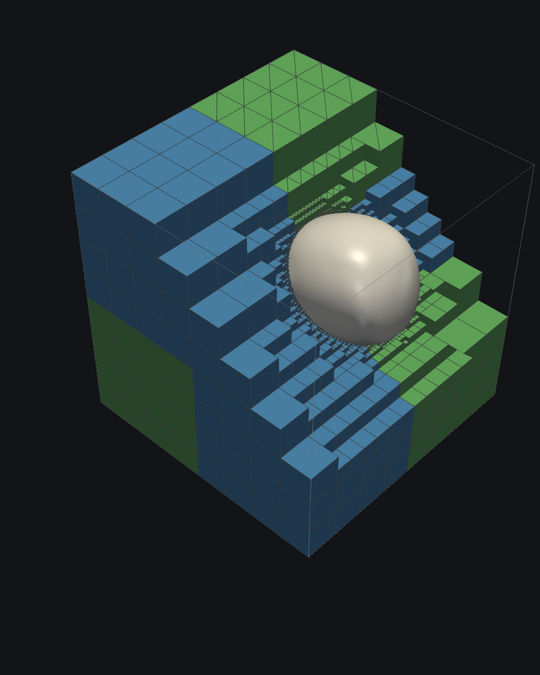
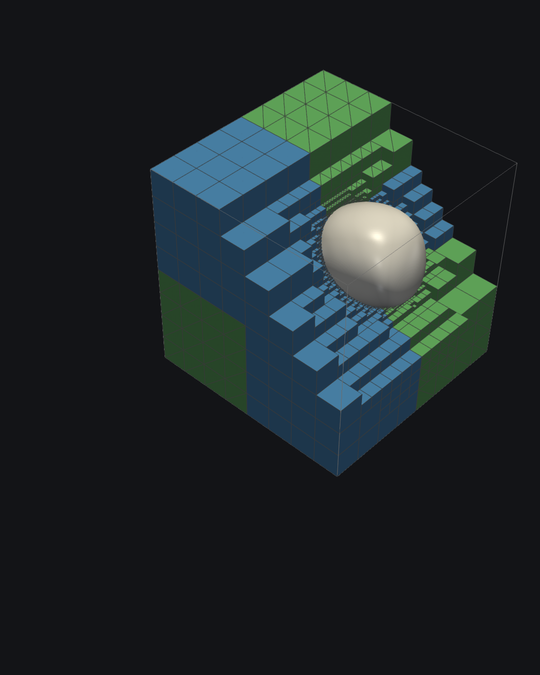
gpu_advection_visualization: semi-transparent sphere in the zoom, raised zoom, text overlays [with assistance from claude] [created with claude]
In the zoom the sphere is semi-transparent, so the refined elements behind it stay visible. The zoom sits higher, clear of video player controls. New option --labels adds the title, the solver/adaptation line and a label at the zoom (used for the original GPU video, not in run.sh, since the second line describes the GPU run). The camera frames the cube clear of texts and zoom. README and images are updated (images rendered from the v50 data).

diff --git a/cases/gpu_advection_visualization/postprocessing/advect_scene.py b/cases/gpu_advection_visualization/postprocessing/advect_scene.py
@@ -4,12 +4,14 @@ Tested with ParaView 5.11.2 (Ubuntu package, /usr/bin/pvpython). Run it with a c
 library path, otherwise pvpython picks up libraries from the module system:
 
   env -u LD_LIBRARY_PATH -u PYTHONPATH pvpython advect_scene.py state  <data_dir> <out.pvsm>
-  env -u LD_LIBRARY_PATH -u PYTHONPATH pvpython advect_scene.py render <data_dir> <out_dir> <first> <last> [stride] [--raytrace] [--inset] [--inset-zoom=Z]
+  env -u LD_LIBRARY_PATH -u PYTHONPATH pvpython advect_scene.py render <data_dir> <out_dir> <first> <last> [stride] [--raytrace]
+      [--inset] [--inset-zoom=Z] [--inset-iso=transparent|curve] [--labels]
 
 'state' writes a ParaView state file for the GUI. 'render' writes one PNG per time step
 (frame_NNN.png) for the steps first, first+stride, ... up to last (inclusive). With --inset each frame also
-gets a zoom into the refinement band in the bottom left corner. Several render processes with disjoint
-step ranges can run at the same time, see make_video.sh. The inset needs PIL (Pillow) in pvpython.
+gets a zoom into the refinement band in the bottom left corner, with --labels the text overlays.
+Several render processes with disjoint step ranges can run at the same time, see make_video.sh.
+The inset and the labels need PIL (Pillow) in pvpython.
 """
 import builtins
 import glob
@@ -39,8 +41,9 @@ BACKGROUND = [0.075, 0.08, 0.09]
 EDGE_COLOR = [0.22, 0.22, 0.22]
 ISO_COLOR = [0.93, 0.92, 0.88]
 OUTLINE_COLOR = [0.42, 0.42, 0.42]
-CAMERA_POSITION = [2.872, 2.601, 3.232]
-CAMERA_FOCAL_POINT = [0.632, 0.484, 0.376]
+# The cube is framed so that it stays clear of the two text lines at the top and the inset with its label.
+CAMERA_POSITION = [3.581, 3.071, 3.811]
+CAMERA_FOCAL_POINT = [0.803, 0.446, 0.270]
 CAMERA_VIEW_UP = [0.0, 0.0, 1.0]
 CAMERA_VIEW_ANGLE = 30.0
 # Zoom into the refinement band (inset in the bottom left corner of the frame, option --inset).
@@ -49,7 +52,9 @@ CAMERA_VIEW_ANGLE = 30.0
 # INSET_DIRECTION, moved by INSET_GAP further out. So it follows the sphere and its deformation.
 # The zoomed region is marked by a frame in the main image, connected to the inset by two lines.
 INSET_RESOLUTION = [360, 360]
-INSET_MARGIN = 16
+# Top left corner of the inset border in the frame. The inset stays clear of the bottom of the frame,
+# where video players show their controls.
+INSET_POSITION = [40, 800]
 # Lower left of the sphere in the main image (hexahedral part of the mesh).
 INSET_DIRECTION = [0.962, 0.193, -0.193]
 INSET_GAP = 0.005
@@ -59,6 +64,20 @@ INSET_LINE_COLOR = (176, 176, 176)
 INSET_LINE_WIDTH = 2
 # Ambient light of the interface in the inset, the zoomed side of the sphere is in the shade.
 INSET_ISO_AMBIENT = 0.4
+# How the interface is shown in the inset, so that the elements behind it stay visible:
+# "transparent" (the sphere with opacity INSET_ISO_OPACITY) or "curve" (only the intersection of the
+# interface with the cutting plane, as a line of width INSET_CURVE_WIDTH).
+INSET_ISO_MODE = "transparent"
+INSET_ISO_OPACITY = 0.4
+INSET_CURVE_WIDTH = 6.0
+
+# Text overlays (option --labels): (text, font file, size in px, color, position of the top left corner).
+FONT_DIR = "/usr/share/fonts/truetype/roboto/hinted"
+LABEL_TITLE = ("t8code - adaptive mesh refinement on a hybrid mesh", "Roboto-Medium.ttf", 40, (240, 240, 240), (40, 30))
+LABEL_SUBTITLE = ("Solver loop: AMD GPU (OpenMP offload) - Mesh adaptation: CPU", "Roboto-Regular.ttf", 30,
+                  (190, 190, 190), (40, 84))
+# Shown with the inset, below it.
+LABEL_INSET = ("Refinement follows interface", "Roboto-Regular.ttf", 30, (190, 190, 190), (40, 1178))
 
 
 def data_files(data_dir):
@@ -233,9 +252,9 @@ def convex_hull(points):
   return set(hull)
 
 
-def save_inset(view, time, frame_file, zoom=INSET_ZOOM):
-  """Render the zoom into the refinement band at the given time and add it to the frame image."""
-  from PIL import Image, ImageDraw
+def save_inset(view, time, inset_file, zoom=INSET_ZOOM, iso_mode=INSET_ISO_MODE):
+  """Render the zoom into the refinement band at the given time into inset_file.
+  Returns the corners of the zoomed region in the main image (top left, top right, bottom right, bottom left)."""
   from paraview import servermanager
   # Intersection curve of the interface with the cutting plane (not part of the state file).
   section = FindSource("interface_on_plane")
@@ -244,6 +263,13 @@ def save_inset(view, time, frame_file, zoom=INSET_ZOOM):
     section.SliceType = "Plane"
     section.SliceType.Origin = PLANE_ORIGIN
     section.SliceType.Normal = PLANE_NORMAL
+    curve_rep = Show(section, view)
+    curve_rep.ColorArrayName = [None, ""]
+    curve_rep.AmbientColor = ISO_COLOR
+    curve_rep.DiffuseColor = ISO_COLOR
+    curve_rep.LineWidth = INSET_CURVE_WIDTH
+    curve_rep.RenderLinesAsTubes = 1
+    curve_rep.Visibility = 0
   section.UpdatePipeline(time)
   points = servermanager.Fetch(section).GetPoints()
   outermost = builtins.max((points.GetPoint(i) for i in range(points.GetNumberOfPoints())),
@@ -258,17 +284,24 @@ def save_inset(view, time, frame_file, zoom=INSET_ZOOM):
   main_distance = vec_dot([CAMERA_POSITION[i] - CAMERA_FOCAL_POINT[i] for i in range(3)], back)
   distance = main_distance * INSET_RESOLUTION[1] / (RESOLUTION[1] * zoom)
 
-  inset_file = frame_file.replace("frame_", "inset_")
   view.CameraFocalPoint = focal
   view.CameraPosition = [focal[i] + distance * back[i] for i in range(3)]
   iso_rep = GetDisplayProperties(FindSource("interface_cut_side"), view)
+  curve_rep = GetDisplayProperties(section, view)
   iso_rep.Ambient = INSET_ISO_AMBIENT
+  if iso_mode == "curve":
+    iso_rep.Visibility = 0
+    curve_rep.Visibility = 1
+  else:
+    iso_rep.Opacity = INSET_ISO_OPACITY
   SaveScreenshot(inset_file, view, ImageResolution=INSET_RESOLUTION, CompressionLevel="3")
   iso_rep.Ambient = 0.0
+  iso_rep.Opacity = 1.0
+  iso_rep.Visibility = 1
+  curve_rep.Visibility = 0
   view.CameraPosition = CAMERA_POSITION
   view.CameraFocalPoint = CAMERA_FOCAL_POINT
 
-  # Corners of the zoomed region (top left, top right, bottom right, bottom left) in the main image.
   half = distance * math.tan(math.radians(CAMERA_VIEW_ANGLE / 2))
   camera = view.GetActiveCamera()
   matrix = camera.GetCompositeProjectionTransformMatrix(RESOLUTION[0] / RESOLUTION[1], -1, 1)
@@ -277,32 +310,41 @@ def save_inset(view, time, frame_file, zoom=INSET_ZOOM):
     p = [focal[i] + half * (sx * right[i] + sy * up[i]) for i in range(3)] + [1.0]
     q = [sum_row(matrix, row, p) for row in range(4)]
     region.append(((q[0] / q[3] + 1) / 2 * RESOLUTION[0], (1 - q[1] / q[3]) / 2 * RESOLUTION[1]))
-  # Corners of the inset, with a border of INSET_LINE_WIDTH around the image.
-  x0 = INSET_MARGIN
-  y0 = RESOLUTION[1] - INSET_MARGIN - INSET_RESOLUTION[1] - 2 * INSET_LINE_WIDTH
-  x1 = x0 + INSET_RESOLUTION[0] + 2 * INSET_LINE_WIDTH - 1
-  y1 = y0 + INSET_RESOLUTION[1] + 2 * INSET_LINE_WIDTH - 1
-  box = [(x0, y0), (x1, y0), (x1, y1), (x0, y1)]
+  return region
 
-  # Draw the lines supersampled, so that they are antialiased after downsampling.
-  scale = 4
+
+def compose_frame(frame_file, inset_file=None, region=None, labels=False):
+  """Add the inset (with the frame around the zoomed region and the connecting lines) and the labels to the frame."""
+  from PIL import Image, ImageDraw, ImageFont
   frame = Image.open(frame_file).convert("RGB")
-  overlay = Image.new("L", (RESOLUTION[0] * scale, RESOLUTION[1] * scale), 0)
-  draw = ImageDraw.Draw(overlay)
-  def scaled(points):
-    return [(x * scale, y * scale) for x, y in points]
-  draw.line(scaled(region + region[:1]), fill=255, width=INSET_LINE_WIDTH * scale, joint="curve")
-  # Connect the corresponding corners that lie on the outside of both rectangles.
-  hull = convex_hull(region + box)
-  for i in range(4):
-    if i in hull and i + 4 in hull:
-      draw.line(scaled([region[i], box[i]]), fill=255, width=INSET_LINE_WIDTH * scale)
-  draw.rectangle(scaled([box[0], box[2]]), fill=255)
-  overlay = overlay.resize(RESOLUTION, Image.LANCZOS)
-  frame.paste(Image.new("RGB", RESOLUTION, INSET_LINE_COLOR), (0, 0), overlay)
-  frame.paste(Image.open(inset_file).convert("RGB"), (x0 + INSET_LINE_WIDTH, y0 + INSET_LINE_WIDTH))
+  if inset_file:
+    # Corners of the inset, with a border of INSET_LINE_WIDTH around the image.
+    x0, y0 = INSET_POSITION
+    x1 = x0 + INSET_RESOLUTION[0] + 2 * INSET_LINE_WIDTH - 1
+    y1 = y0 + INSET_RESOLUTION[1] + 2 * INSET_LINE_WIDTH - 1
+    box = [(x0, y0), (x1, y0), (x1, y1), (x0, y1)]
+    # Draw the lines supersampled, so that they are antialiased after downsampling.
+    scale = 4
+    overlay = Image.new("L", (RESOLUTION[0] * scale, RESOLUTION[1] * scale), 0)
+    draw = ImageDraw.Draw(overlay)
+    def scaled(points):
+      return [(x * scale, y * scale) for x, y in points]
+    draw.line(scaled(region + region[:1]), fill=255, width=INSET_LINE_WIDTH * scale, joint="curve")
+    # Connect the corresponding corners that lie on the outside of both rectangles.
+    hull = convex_hull(region + box)
+    for i in range(4):
+      if i in hull and i + 4 in hull:
+        draw.line(scaled([region[i], box[i]]), fill=255, width=INSET_LINE_WIDTH * scale)
+    draw.rectangle(scaled([box[0], box[2]]), fill=255)
+    overlay = overlay.resize(RESOLUTION, Image.LANCZOS)
+    frame.paste(Image.new("RGB", RESOLUTION, INSET_LINE_COLOR), (0, 0), overlay)
+    frame.paste(Image.open(inset_file).convert("RGB"), (x0 + INSET_LINE_WIDTH, y0 + INSET_LINE_WIDTH))
+  if labels:
+    draw = ImageDraw.Draw(frame)
+    for text, font_file, size, color, position in [LABEL_TITLE, LABEL_SUBTITLE] + ([LABEL_INSET] if inset_file else []):
+      font = ImageFont.truetype(os.path.join(FONT_DIR, font_file), size)
+      draw.text(position, text, font=font, fill=color)
   frame.save(frame_file, compress_level=3)
-  os.remove(inset_file)
 
 
 def sum_row(matrix, row, p):
@@ -315,10 +357,14 @@ def main():
   files = data_files(data_dir)
   raytrace = "--raytrace" in sys.argv
   inset = "--inset" in sys.argv
+  labels = "--labels" in sys.argv
   zoom = INSET_ZOOM
+  iso_mode = INSET_ISO_MODE
   for arg in sys.argv:
     if arg.startswith("--inset-zoom="):
       zoom = float(arg.split("=")[1])
+    if arg.startswith("--inset-iso="):
+      iso_mode = arg.split("=")[1]
   reader, view = build_scene(files, raytrace)
   if mode == "state":
     SaveState(sys.argv[3])
@@ -332,8 +378,14 @@ def main():
     scene.AnimationTime = times[step]
     frame_file = os.path.join(out_dir, "frame_%03d.png" % step)
     SaveScreenshot(frame_file, view, ImageResolution=RESOLUTION, CompressionLevel="3")
+    inset_file, region = None, None
     if inset:
-      save_inset(view, times[step], frame_file, zoom)
+      inset_file = os.path.join(out_dir, "inset_%03d.png" % step)
+      region = save_inset(view, times[step], inset_file, zoom, iso_mode)
+    if inset or labels:
+      compose_frame(frame_file, inset_file, region, labels)
+    if inset_file:
+      os.remove(inset_file)
     print("frame %d done" % step, flush=True)
 
 

diff --git a/cases/gpu_advection_visualization/README.md b/cases/gpu_advection_visualization/README.md
@@ -42,9 +42,10 @@ is offloaded to the GPU with OpenMP `target`.
   color range of ±0.25 for all time steps.
 * The light surface is the interface $\varphi = 0$ on the removed side of the plane. Therefore the half sphere sits on
   the cut face. Around it you see the band of fine elements (refinement level up to 7) as a ring on the cut face.
-* The window in the bottom left corner zooms (10 times) into the refinement band on the cut face at the lower left of
+* The window in the lower left corner zooms (10 times) into the refinement band on the cut face at the lower left of
   the sphere. There, in the hexahedral part of the mesh, the elements become finer towards the interface like a
-  staircase. The small frame in the main image marks the zoomed region.
+  staircase. In the zoom, the sphere is semi-transparent, so the elements behind it stay visible.
+  The small frame in the main image marks the zoomed region.
 * During the run, the sphere moves along a loop and is deformed by the flow (middle image). At the end it is almost
   back at its start. You can watch the refinement band move with the interface and the mesh coarsen behind it.
 
@@ -130,13 +131,18 @@ To make the video from the GPU run, copy the `advection_*.pvtu`/`.vtu` files to 
 the scripts in `postprocessing/` with 11.8 steps per second (118 steps → 10 s video, 59 render processes):
 
 ```bash
-bash postprocessing/make_video.sh <data_dir> <out_dir> 59 11.8 1 --inset
+bash postprocessing/make_video.sh <data_dir> <out_dir> 59 11.8 1 --inset --labels
 env -u LD_LIBRARY_PATH -u PYTHONPATH /usr/bin/pvpython --force-offscreen-rendering \
     postprocessing/advect_scene.py state <data_dir> <out_dir>/advect_hybrid_cube.pvsm
 ```
 
 The cutting plane and the camera fit both runs, the sphere follows the same path. Rendering the 118 steps took
 about 5 minutes with 59 processes. The still image is output step 59.
+
+The option `--labels` adds the text overlays of the original video: the title
+"t8code - adaptive mesh refinement on a hybrid mesh", below it "Solver loop: AMD GPU (OpenMP offload) - Mesh adaptation: CPU",
+and "Refinement follows interface" below the zoom. The second line describes the GPU run, therefore `run.sh` (CPU run)
+does not use `--labels`. The texts are set at the top of `postprocessing/advect_scene.py` (`LABEL_*`).
 
 ## Workflow
 
@@ -171,9 +177,13 @@ at the top of the file.
 * The zoom (option `--inset` of `advect_scene.py` and `make_video.sh`): a second camera looks from the same direction,
   10 times magnified, at the interface on the cut face at the lower left of the sphere. Its target is the outermost point of
   the intersection of the interface with the cutting plane, so it follows the sphere and its deformation.
-  The sphere gets more ambient light in the zoom, since this side is in the shade.
-  The zoom is placed in the bottom left corner of each frame, and a frame with two connecting lines marks the zoomed region
-  in the main image (drawn with Pillow). The state file contains only the main view.
+  In the zoom, the sphere is semi-transparent (opacity 0.4) and gets more ambient light, since this side is in the shade.
+  The zoom is placed in the lower left of each frame, about 190 px above the bottom edge, so that the controls of video
+  players do not cover it. A frame with two connecting lines marks the zoomed region in the main image (drawn with Pillow).
+  The state file contains only the main view.
+* The text overlays (option `--labels`, see [GPU run on aac7](#gpu-run-on-aac7)) use the Roboto font
+  (`/usr/share/fonts/truetype/roboto/hinted`). The camera frames the cube so that it stays clear of the texts and the zoom.
+
 ## Dependencies
 
 ### Fetched repositories
@@ -192,6 +202,7 @@ at the top of the file.
   ParaView 5.12.0-RC1 from the module system crashes (segmentation fault in `vtkExtractCells`) when the time step
   changes with a crinkle clip in the pipeline. Use 5.11.2 also to open the state file in the GUI (`/usr/bin/paraview`).
 * ffmpeg with libx264.
+* Pillow (Python package, included in the Ubuntu ParaView 5.11.2) and the Roboto font for the zoom and the text overlays.
 * MPI version 3.0 or higher, C++ compiler supporting C++20.
 * Disk space: about 12 GB for the simulation output (ASCII VTU) in `output/simulation/`.
 
